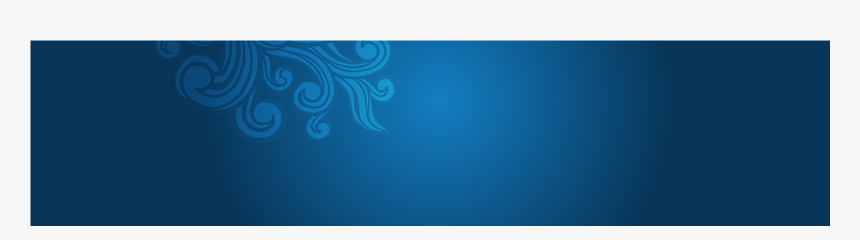
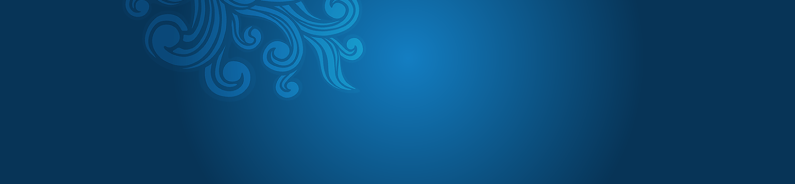
UPDATED THINGS

diff --git a/html/index.html b/html/index.html
@@ -12,6 +12,7 @@
 
     <!--this is how you comment things in html-->
 
+
     
     <h1 style="background-color: rgb(35, 214, 65);">rgb(35, 214, 65) this is <abbr title="red,green,blue">rgb</abbr> color code</h1>
 
@@ -64,9 +65,9 @@
         <a href="https://www.google.com/search?gs_ssp=eJzj4tLP1TcoqiwoyE1XYDRgdGDwYkvPLMkoTQIAWC4HFA&q=github&oq=&aqs=chrome.0.46i39i199i291i362j35i39i362l7.1322465j0j7&sourceid=chrome&ie=UTF-8">link</a><br>
 
         <img src="https://media.idownloadblog.com/wp-content/uploads/2018/08/iPhone-XS-marketing-wallpaper.jpg" height ="200px" width="100px"
-        alt="moiz" title="ye dekh mere i-phone ka wallpaper (and this is called Absolute URL)">
+        alt="moiz" title="ye dekh mere i-phone ka wallpaper (this is called Absolute URL)">
 
-        <img src="1.jpg" alt="hello world" title="image hee to hai aur kya hai(and this is Relative URL)">
+        <img src="1.jpg" alt="hello world" title="image hee to hai aur kya hai(this is Relative URL)">
 
         <p>hello<br>my name is moiz <br>and this is example of br tag</p>
 

diff --git a/html/new.html b/html/new.html
@@ -1,0 +1,21 @@
+<!DOCTYPE html>
+<html lang="en">
+<head>
+    <meta charset="UTF-8">
+    <meta http-equiv="X-UA-Compatible" content="IE=edge">
+    <meta name="viewport" content="width=device-width, initial-scale=1.0">
+    <title>Document</title>
+    <style>
+        #nh1{
+            background: #aabbcc;
+        }
+        h1{
+            border: 3px solid blue;
+            margin: 50px;
+        }
+    </style>
+</head>
+<body>
+    <h1 id="nh1">this is h1 tag</h1>
+</body>
+</html>

diff --git a/html/css.html b/html/css.html
@@ -1,0 +1,13 @@
+<!DOCTYPE html>
+<html lang="en">
+<head>
+    <meta charset="UTF-8">
+    <meta http-equiv="X-UA-Compatible" content="IE=edge">
+    <meta name="viewport" content="width=device-width, initial-scale=1.0">
+    <title>Document</title>
+    <link rel="stylesheet" href="style.css">
+</head>
+<body>
+    <p id="imgp" style="font-size: 60px; height: 100px;width: 500px;">this is bg image</p>
+</body>
+</html>

diff --git a/html/style.css b/html/style.css
@@ -1,0 +1,4 @@
+#imgp{
+    background-image: url("2.png");
+    color: white;
+}
